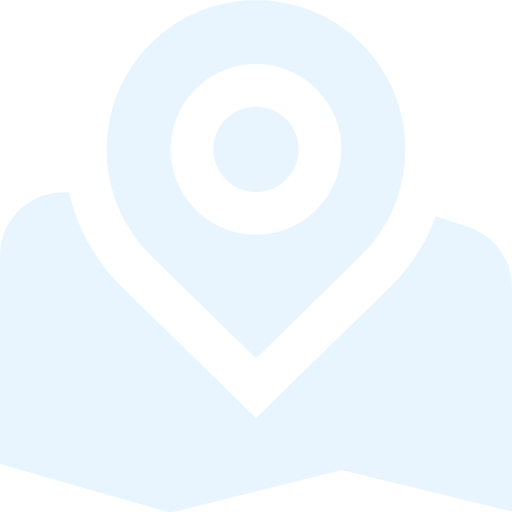
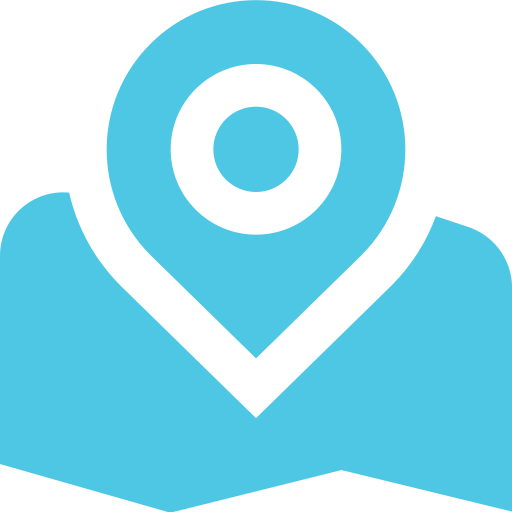
modification des icones + mise en commentaire sur class Annonce

diff --git a/Controllers/AnnonceController.cs b/Controllers/AnnonceController.cs
@@ -14,25 +14,19 @@ namespace coproBox.Controllers
             _webEnv = environment;
             this.dal = new Dal();
         }
- 
+
+        public IActionResult CreerAnnonce()
+        {
+            return View();
+        }
+
         public IActionResult AfficherAnnonce()
         {
             List<Annonce> listeDesAnnonces = dal.ObtientToutesLesAnnonces();
             return View(listeDesAnnonces);
         }
 
-        public IActionResult CreerAnnonce()
-<<<<<<< HEAD
-        {
-            return View();
-        }
 
-        public IActionResult AfficherAnnonce()
-=======
->>>>>>> c1c4285 (changement vue creerAnnonce)
-        {
-            return View();
-        }
 
         [HttpPost]
         public ActionResult Creer(Annonce annonce)

diff --git a/Models/Annonce.cs b/Models/Annonce.cs
@@ -18,7 +18,7 @@ namespace coproBox.Models
 
         public TypeService TypeService { get; set;}
 
-        public IFormFile Image { get; set; }
+       // public IFormFile Image { get; set; }
 
     }
 }
